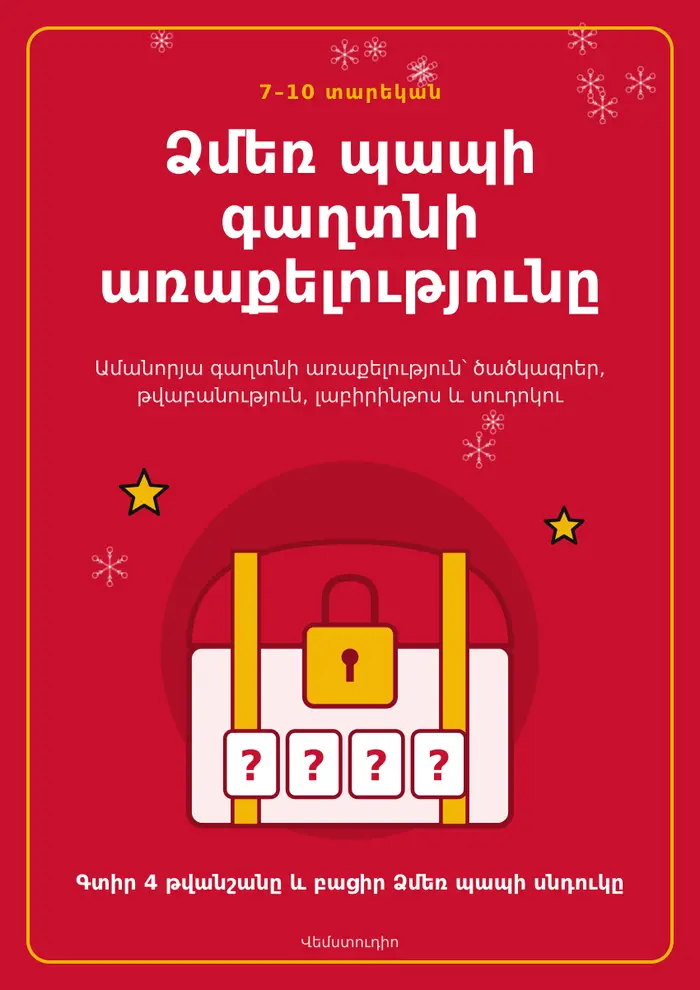
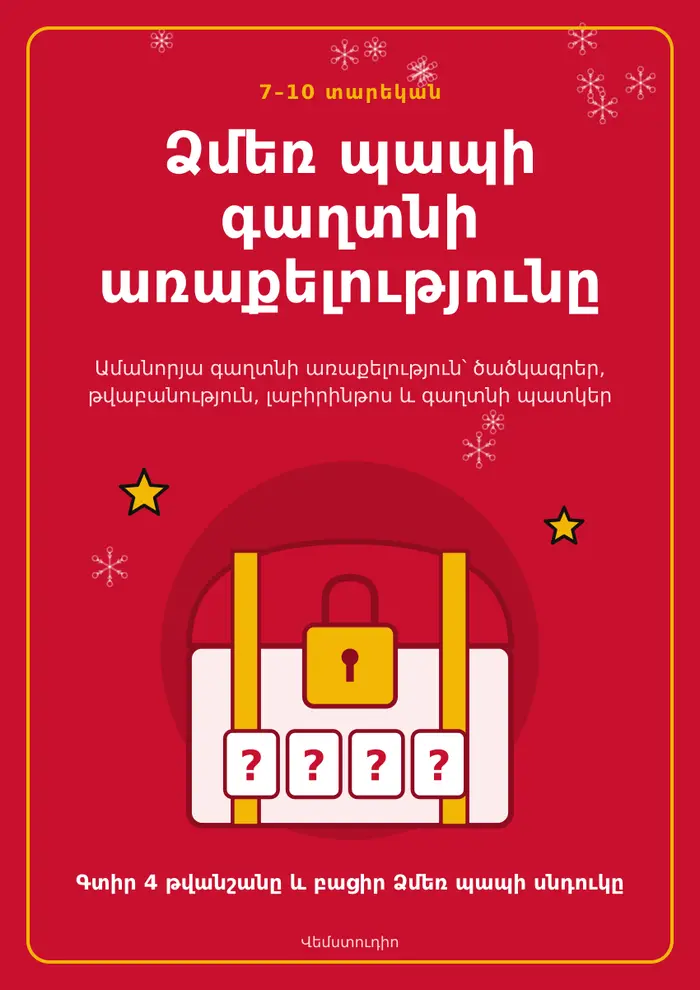
New Year mission: replace sudoku with hidden-picture math page
Claude-Session: https://claude.ai/code/session_01QwsuEMYA5iSo43NSS1bw1f

Changed region(s): [[0.12, 0.3939, 0.87, 0.4242]]

diff --git a/index.html b/index.html
@@ -352,7 +352,7 @@ footer{margin-top:40px}
         <span class="status now"><span class="hy">Նոր է</span><span class="en">New</span></span>
         <h3 id="h-araq"><span class="hy">Ձմեռ պապի գաղտնի առաքելությունը</span><span class="en">Santa’s Secret Mission</span></h3>
         <p class="kind"><span class="hy">Ամանորյա քվեստ 7–10 տարեկանների համար</span><span class="en">A New Year escape-room quest for ages 7–10</span></p>
-        <p class="desc"><span class="hy">Ձմեռ պապը կողպել է նվերների սնդուկը։ Երեխաները լուծում են ծածկագիրը, մտավոր թվաբանության շղթաները, լաբիրինթոսն ու սուդոկուն, գտնում 4 թվանշանը և բացում սնդուկը։ Հարմար է տանը և դասարանում՝ թիմերով։</span><span class="en">Santa has locked his chest of presents. Children crack the code, solve mental-math chains, a maze and sudoku, find the 4 digits and open the chest. Works at home or in class with teams.</span></p>
+        <p class="desc"><span class="hy">Ձմեռ պապը կողպել է նվերների սնդուկը։ Երեխաները լուծում են ծածկագիրը, մտավոր թվաբանության շղթաները, լաբիրինթոսն ու գաղտնի պատկերը, գտնում 4 թվանշանը և բացում սնդուկը։ Հարմար է տանը և դասարանում՝ թիմերով։</span><span class="en">Santa has locked his chest of presents. Children crack the code, solve mental-math chains, a maze and a hidden picture, find the 4 digits and open the chest. Works at home or in class with teams.</span></p>
         <ul>
           <li><span class="hy">6 առաջադրանք և վերջնական կոդ</span><span class="en">6 puzzles and a final code</span></li>
           <li><span class="hy">գաղտնի նամակ գրելու էջ</span><span class="en">a page to write your own secret letter</span></li>
@@ -371,6 +371,7 @@ footer{margin-top:40px}
       <div class="peek" role="list" aria-label="Էջերի օրինակներ / Sample pages">
         <figure role="listitem"><img src="img/amanor/araqelutyun-tsatskagir.webp" width="900" height="1273" loading="lazy" alt="Գաղտնի նամակի էջը / Secret letter page"><figcaption><span class="hy">Գաղտնի նամակ</span><span class="en">Secret letter</span></figcaption></figure>
         <figure role="listitem"><img src="img/amanor/araqelutyun-tvabanutyun.webp" width="900" height="1273" loading="lazy" alt="Մտավոր թվաբանության էջը / Mental math page"><figcaption><span class="hy">Մտավոր թվաբանություն</span><span class="en">Mental math</span></figcaption></figure>
+        <figure role="listitem"><img src="img/amanor/araqelutyun-patker.webp" width="900" height="1273" loading="lazy" alt="Գաղտնի պատկերի էջը / Hidden picture page"><figcaption><span class="hy">Գաղտնի պատկեր</span><span class="en">Hidden picture</span></figcaption></figure>
       </div>
     </article>
   </div>
